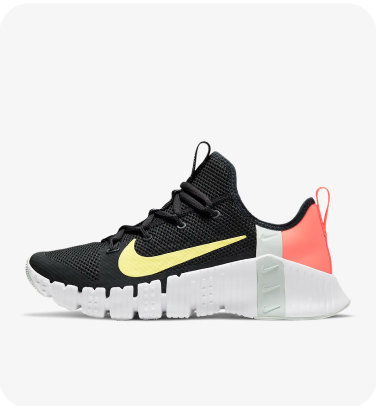
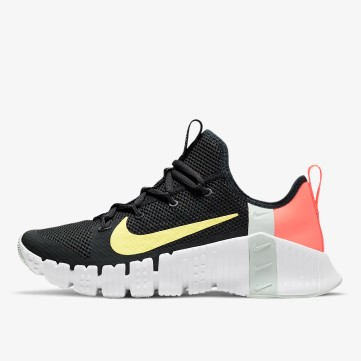
скрины продуктов подведены под один тип, доработана карточка с вертикальным положением, добавлена кнопка добавить товар в избранное и переделана кнопка добавить товар в корзину с плюсика на кнопку с подписью add

Changed region(s): [[0.0305, 0.3352, 0.9446, 0.8532]]

diff --git a/src/components/CardProduct/CardProductVertical.vue b/src/components/CardProduct/CardProductVertical.vue
@@ -1,5 +1,21 @@
 <template>
   <div class="card">
+    <div class="card__btn-wish">
+      <svg
+        width="25"
+        height="22"
+        viewBox="0 0 25 22"
+        fill="none"
+        xmlns="http://www.w3.org/2000/svg"
+      >
+        <path
+          fill-rule="evenodd"
+          clip-rule="evenodd"
+          d="M17.0013 -1.29166e-05C15.4189 -3.05176e-05 14.3988 0.188491 13.2295 0.760851C12.7966 0.972758 12.3904 1.22796 12.0132 1.52568C11.6505 1.24465 11.2606 1.00117 10.8456 0.795898C9.65357 0.206321 8.58119 -3.05176e-05 7.05551 -3.05176e-05C2.96936 -3.05176e-05 0 3.38561 0 7.78275C0 11.1035 1.85154 14.3112 5.3003 17.413C7.11054 19.0412 9.42184 20.6524 11.0771 21.5095L12.0242 22L12.9712 21.5095C14.6265 20.6524 16.9378 19.0412 18.748 17.413C22.1968 14.3112 24.0483 11.1035 24.0483 7.78275C24.0483 3.43215 21.051 0.0167578 17.0013 -1.29166e-05ZM21.8621 7.78275C21.8621 10.3844 20.3167 13.0618 17.2861 15.7876C15.6338 17.2736 13.5097 18.7587 12.0242 19.5378C10.5387 18.7587 8.41454 17.2736 6.76226 15.7876C3.73167 13.0618 2.18621 10.3844 2.18621 7.78275C2.18621 4.53387 4.24523 2.18618 7.05551 2.18618C8.26857 2.18618 9.01608 2.33002 9.87637 2.75552C10.3845 3.00685 10.8336 3.33872 11.2224 3.75345L12.0267 4.61146L12.8237 3.74665C13.2212 3.31531 13.677 2.97588 14.1906 2.72446C15.0257 2.31571 15.7265 2.18618 16.9968 2.18619C19.7723 2.19769 21.8621 4.57895 21.8621 7.78275Z"
+          fill="#97ADB6"
+        />
+      </svg>
+    </div>
     <img
       class="card__img"
       :src="require(`@/assets/img-sneakers/${product.img}`)"
@@ -14,7 +30,7 @@
     <div class="card__colors">{{ product.countColors }} Colors</div>
     <div class="card__bottom">
       <div class="card__price">${{ product.price }}</div>
-      <div class="card__btn" @click.stop="addProduct(product)">
+      <!-- <div class="card__btn" @click.stop="addProduct(product)">
         <svg
           width="12"
           height="12"
@@ -31,14 +47,23 @@
             stroke-width="0.5"
           />
         </svg>
-      </div>
+      </div> -->
+      <AppButton
+        class="card__btn"
+        @click="addProduct(product)"
+        variant="seconadry"
+        text="Add"
+        size="small"
+      />
     </div>
   </div>
 </template>
 <script>
 import { mapActions } from "vuex";
+import AppButton from "../AppButton.vue";
 
 export default {
+  components: { AppButton },
   name: "CardProductVertical",
 
   props: {
@@ -56,13 +81,23 @@ export default {
   background-color: #fefefe;
   border-radius: 16px;
   padding: 0.625rem 0.5rem;
+  position: relative;
+}
+.card__btn-wish {
+  cursor: pointer;
+  position: absolute;
+  right: 1.25rem;
+  top: 1.25rem;
+
+  &:hover path {
+    fill: #4a5562;
+  }
 }
 .card__img {
   aspect-ratio: 125 / 135;
   border: 0.5px solid $secondary;
   border-radius: 10px;
   cursor: pointer;
-  object-fit: fill;
   transition: $transition-base;
   width: 100%;
 
@@ -104,16 +139,10 @@ export default {
   line-height: 1.25;
 }
 .card__btn {
-  align-items: center;
+  color: $fc-gray;
   cursor: pointer;
-  display: flex;
+  font-size: 0.65rem;
   height: 1rem;
-  justify-content: flex-end;
-  transition: $transition-base;
-  width: 20px;
-
-  &:hover {
-    opacity: 0.8;
-  }
+  width: 30%;
 }
 </style>>

diff --git a/src/store/modules/catalog.js b/src/store/modules/catalog.js
@@ -53,40 +53,32 @@ export default {
 					id: 'd270e739-7b5e-4b41-be05-225968c67453',
 				},
 				{
-					name: "Nike 1",
-					img: "sneaker1.jpg",
+					name: "Nike Air Max 2",
+					img: "Nike Air Max 2.jpg",
 					price: "181.00",
 					countColors: 1,
 					category: ["new", "men"],
 					id: 'cb91a74e-e885-49fc-b423-7bdda677a819',
 				},
 				{
-					name: "Nike 2",
-					img: "sneaker2.jpg",
+					name: "Nike Squash-Type",
+					img: "Nike Squash-Type.jpg",
 					price: "182.00",
 					countColors: 2,
 					category: ["new"],
 					id: '175a5629-716d-4910-9df7-1ab384d3e90e',
 				},
 				{
-					name: "Nike 3",
-					img: "sneaker3.jpg",
-					price: "183.00",
-					countColors: 3,
-					category: ["new", "men", "popular"],
-					id: 'd9b7aa64-9407-494a-85db-05b7485ccf89',
-				},
-				{
-					name: "Nike 4",
-					img: "sneaker4.jpg",
+					name: "Nike Metcon 7 Flyease",
+					img: "Nike Metcon 7 Flyease.jpg",
 					price: "184.00",
 					countColors: 4,
-					category: ["new"],
+					category: ["new", "popular"],
 					id: 'bf2eb41f-f792-4dc8-85f1-9ea0b9b7b436',
 				},
 				{
-					name: "Air Max 2090",
-					img: "popular-sneaker.jpg",
+					name: "Nike Air Max 2090",
+					img: "Nike Air Max 2090.jpg",
 					price: "184.00",
 					countColors: 4,
 					category: ["men", "new", "popular"],

diff --git a/src/views/HomePage.vue b/src/views/HomePage.vue
@@ -138,7 +138,7 @@ export default {
 }
 .home-page__page-search {
   background-color: $white;
-  margin-left: -2.25rem;
+  margin-left: -$padding-side;
   max-width: $body-max-width;
   min-width: $body-min-width;
   opacity: 0.7;
@@ -158,9 +158,9 @@ export default {
   display: flex;
   height: 231px;
   justify-content: space-between;
-  margin-left: -2.25rem;
-  padding: 3.3rem 2.25rem 0;
-  width: calc(100% + 4.5rem);
+  margin-left: -$padding-side;
+  padding: 3.3rem $padding-side 0;
+  width: calc(100% + $padding-side * 2);
 }
 
 .home-page__btn {
@@ -196,18 +196,18 @@ export default {
 .home-page__wrapper-swiper {
   background-color: #e0e4e7;
   border-radius: 25px 25px 0 0;
-  margin-left: -2.25rem;
+  margin-left: -$padding-side;
   margin-top: 1.375rem;
   min-height: 340px;
   overflow: hidden;
   padding-bottom: 1.5rem;
-  width: calc(100% + 4.5rem);
+  width: calc(100% + $padding-side * 2);
 }
 .home-page__header-swiper {
   align-items: center;
   display: flex;
   justify-content: space-between;
-  padding: 1rem 2.25rem 1.25rem;
+  padding: 1rem $padding-side 1.25rem;
 }
 .home-page__title-swiper {
   color: $fc-gray;

diff --git a/src/components/CardProduct/CardProductPopular.vue b/src/components/CardProduct/CardProductPopular.vue
@@ -1,13 +1,15 @@
 <template>
   <div class="card">
-    <img
-      :src="require(`@/assets/img-sneakers/${product.img}`)"
-      class="card__img"
-    />
+    <div class="card__container-img">
+      <img
+        :src="require(`@/assets/img-sneakers/${product.img}`)"
+        class="card__img"
+      />
+    </div>
     <div class="card__descr">
       <div class="card__category">Popular</div>
       <div class="card__title" :title="product.name">
-        {{ product.name }}
+        {{ product.name.split(" ").slice(1).join(" ") }}
       </div>
       <AppButton
         class="card__btn"
@@ -57,13 +59,19 @@ export default {
   justify-content: space-between;
   width: 100%;
 }
-.card__img {
-  aspect-ratio: 164 / 94;
+.card__container-img {
+  align-items: center;
+  background-color: $light-gray;
   border: 0.5px solid $secondary;
   border-radius: 10px;
+  display: flex;
   height: 94px;
-  object-fit: fill;
+  justify-content: center;
+  overflow: hidden;
   width: 60%;
+}
+.card__img {
+  height: 150%;
 }
 .card__descr {
   margin-left: 0.3125rem;

diff --git a/src/styles/_variables.scss b/src/styles/_variables.scss
@@ -1,10 +1,10 @@
 // Colors
 
 $gray: #555;
+$light-gray: #f7f8f9;
 $primary: #1152fd;
 $secondary: #d5dde0;
 $white: #fff;
-
 
 // Typography
 
@@ -13,14 +13,13 @@ $font-size-base: 0.875rem;
 $fz-small: 0.75rem;
 $fc-gray: #3e4958;
 
-
 // Components
 
-$transition-base: .15s ease-in-out;
-
+$transition-base: 0.15s ease-in-out;
 
 // Body
 
 $body-bg: $white;
 $body-min-width: 320px;
 $body-max-width: 450px;
+$padding-side: 2.25rem;

diff --git a/src/components/PageSearch.vue b/src/components/PageSearch.vue
@@ -69,12 +69,13 @@ export default {
   align-items: center;
   border-top: 1px solid $secondary;
   border-bottom: 1px solid $secondary;
+  cursor: pointer;
   display: flex;
   justify-content: space-between;
   transition: $transition-base;
 
   &:hover {
-    background-color: $secondary;
+    background-color: $light-gray;
     border-radius: 10px;
   }
 

diff --git a/src/components/AppWrapper.vue b/src/components/AppWrapper.vue
@@ -13,6 +13,6 @@ export default {
 
 <style  lang="scss" scoped>
 .app-wrapper {
-  padding: 0 2.25rem 3.125rem;
+  padding: 0 $padding-side 3.125rem;
 }
 </style>
